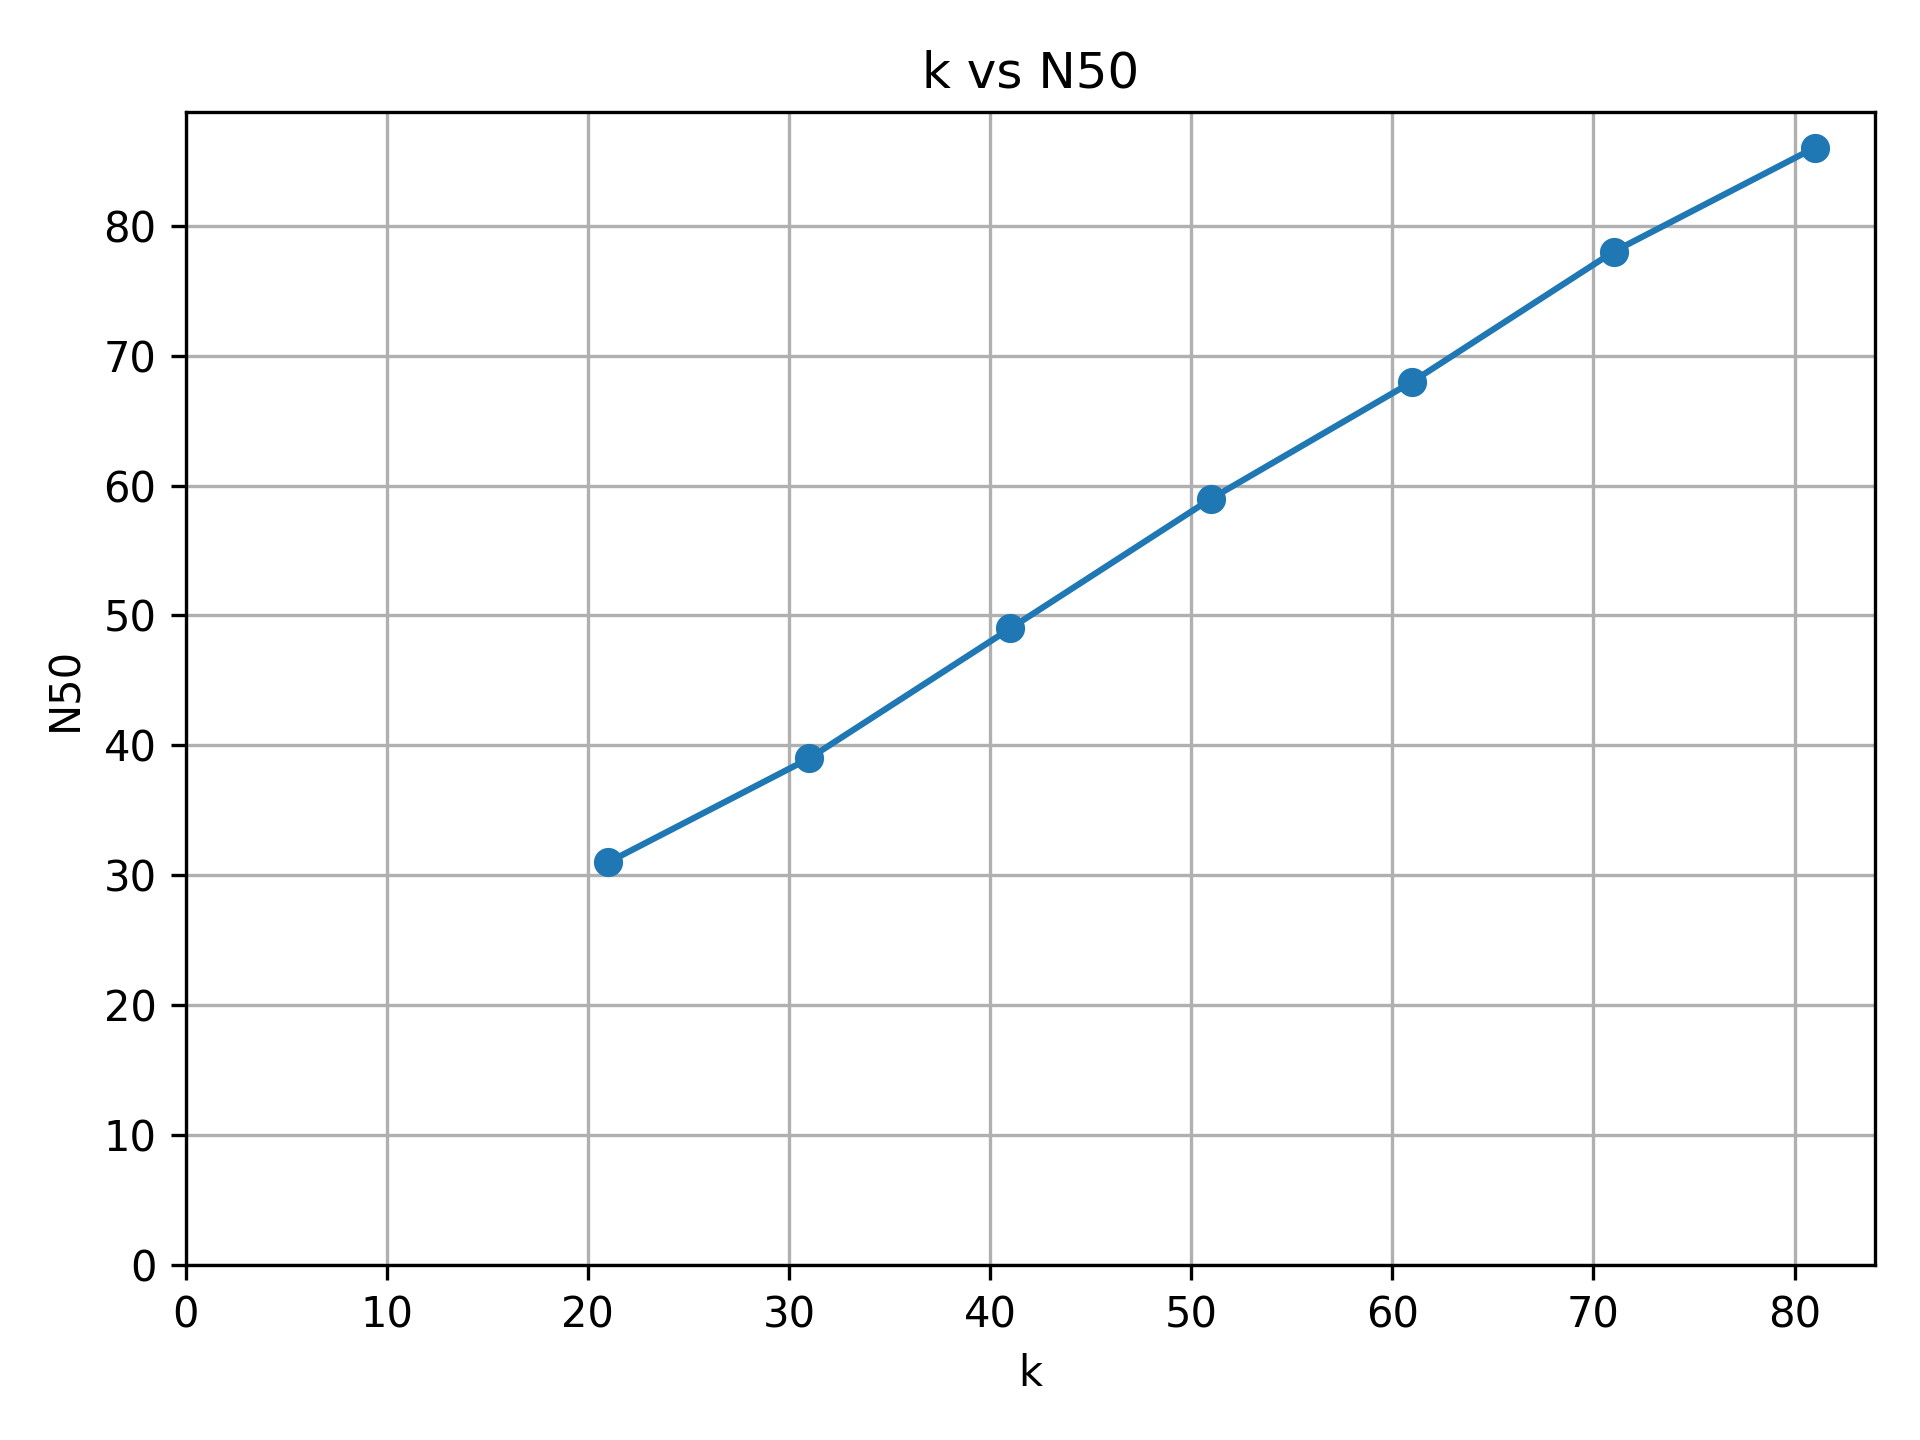
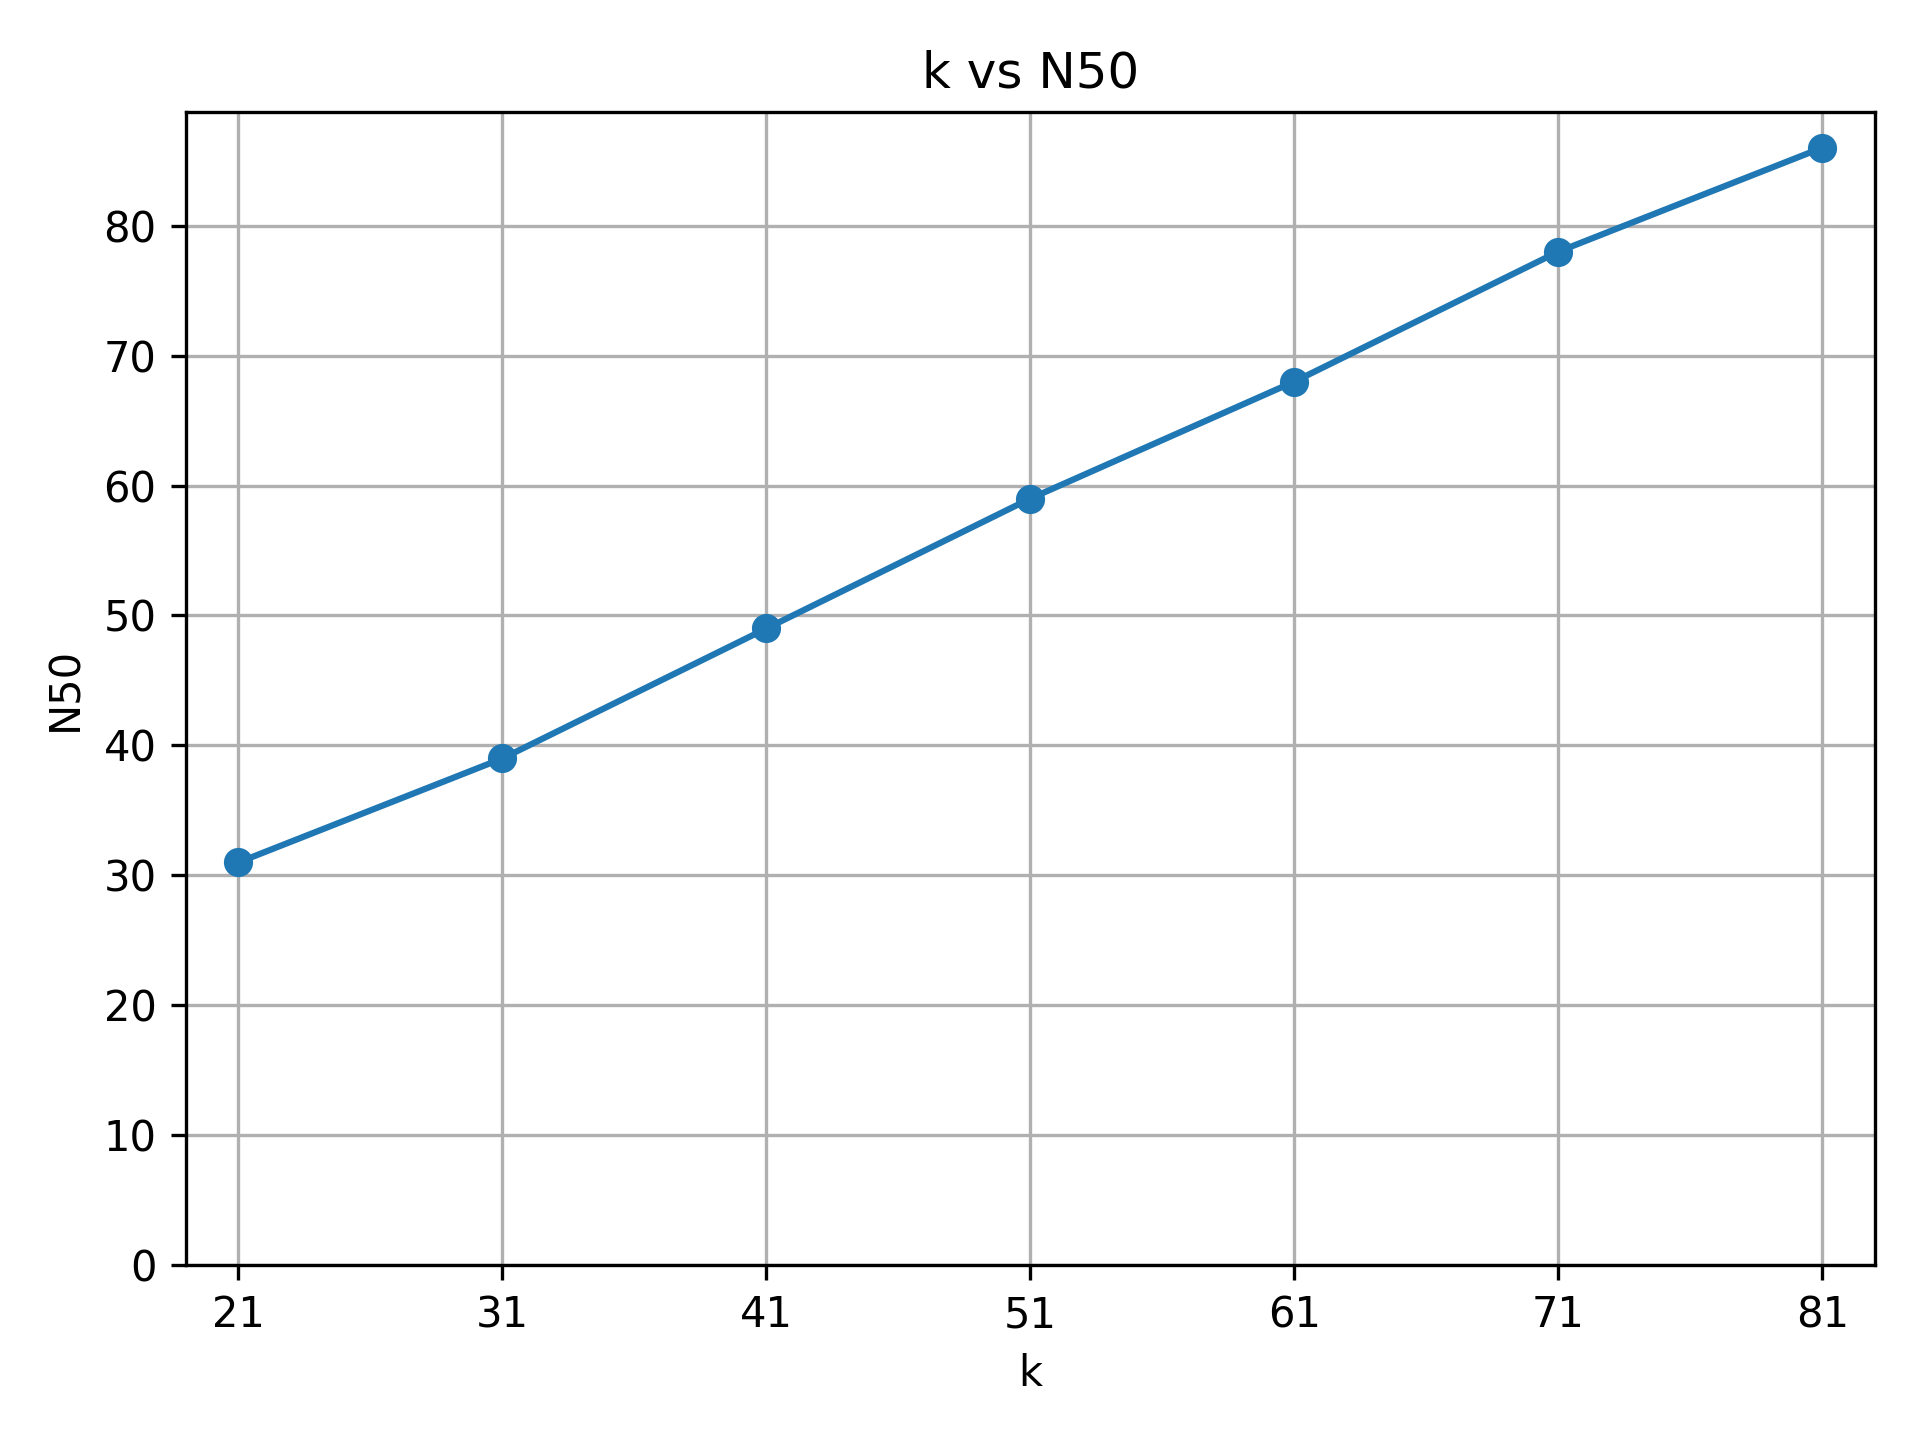
arreglos gráficas

diff --git a/python/visualizacion.py b/python/visualizacion.py
@@ -25,99 +25,59 @@ def leer_resultados(ruta):
 def graficar(ks, n50s, num_contigs, max_contigs, long_total):
     os.makedirs("resultados", exist_ok=True)
 
-    # Gráficas individuales de cada métrica
+    # Ordenar por k
+    ks, n50s = zip(*sorted(zip(ks, n50s)))
+    ks, num_contigs = zip(*sorted(zip(ks, num_contigs)))
+    ks, max_contigs = zip(*sorted(zip(ks, max_contigs)))
+    ks, long_total = zip(*sorted(zip(ks, long_total)))
 
-    # k vs N50
-    plt.figure()
-    plt.plot(ks, n50s, marker='o')
-    plt.xlabel("k")
-    plt.ylabel("N50")
-    plt.title("k vs N50")
-    plt.ylim(bottom=0)
-    plt.xlim(left=0)
-    plt.grid(True)
-    plt.tight_layout()
-    plt.savefig("resultados/k_vs_n50.png", dpi=300)
-    plt.close()
+    # Función auxiliar para hacer las gráficas
+    def plot_simple(ks, valores, ylabel, title, filename):
+        plt.figure()
+        plt.plot(ks, valores, marker='o')
 
-    # k vs número de contigs
-    plt.figure()
-    plt.plot(ks, num_contigs, marker='o')
-    plt.xlabel("k")
-    plt.ylabel("Número de contigs")
-    plt.title("k vs Número de contigs")
-    plt.ylim(bottom=0)
-    plt.xlim(left=0)
-    plt.grid(True)
-    plt.tight_layout()
-    plt.savefig("resultados/k_vs_contigs.png", dpi=300)
-    plt.close()
+        plt.xlabel("k")
+        plt.ylabel(ylabel)
+        plt.title(title)
 
-    # k vs longitud máxima de contig
-    plt.figure()
-    plt.plot(ks, max_contigs, marker='o')
-    plt.xlabel("k")
-    plt.ylabel("Longitud máxima de contig")
-    plt.title("k vs Longitud máxima de contig")
-    plt.ylim(bottom=0)
-    plt.xlim(left=0)
-    plt.grid(True)
-    plt.tight_layout()
-    plt.savefig("resultados/k_vs_max.png", dpi=300)
-    plt.close()
+        # eje X dinámico
+        plt.xlim(min(ks) - 2, max(ks) + 2)
+        plt.xticks(ks)
 
-    # k vs longitud total
-    plt.figure()
-    plt.plot(ks, long_total, marker='o')
-    plt.xlabel("k")
-    plt.ylabel("Longitud total ensamblada")
-    plt.title("k vs Longitud total")
-    plt.ylim(bottom=0)
-    plt.xlim(left=0)
-    plt.grid(True)
-    plt.tight_layout()
-    plt.savefig("resultados/k_vs_total.png", dpi=300)
-    plt.close()
+        plt.ylim(bottom=0)
+        plt.grid(True)
+        plt.tight_layout()
+        plt.savefig(f"resultados/{filename}", dpi=300)
+        plt.close()
 
-    # Figura con todas las gráficas juntas
+    # Gráficas individuales
+    plot_simple(ks, n50s, "N50", "k vs N50", "k_vs_n50.png")
+    plot_simple(ks, num_contigs, "Número de contigs", "k vs Número de contigs", "k_vs_contigs.png")
+    plot_simple(ks, max_contigs, "Longitud máxima", "k vs Longitud máxima", "k_vs_max.png")
+    plot_simple(ks, long_total, "Longitud total", "k vs Longitud total", "k_vs_total.png")
 
+    # Todas las gráficas juntas
     fig, axs = plt.subplots(4, 1, figsize=(8, 16))
 
-    # N50
-    axs[0].plot(ks, n50s, marker='o')
-    axs[0].set_title("k vs N50")
-    axs[0].set_xlabel("k")
-    axs[0].set_ylabel("N50")
-    axs[0].set_ylim(bottom=0)
-    axs[0].set_xlim(left=0)
-    axs[0].grid(True)
+    metricas = [
+        (n50s, "N50"),
+        (num_contigs, "Número de contigs"),
+        (max_contigs, "Longitud máxima"),
+        (long_total, "Longitud total")
+    ]
 
-    # Contigs
-    axs[1].plot(ks, num_contigs, marker='o')
-    axs[1].set_title("k vs Número de contigs")
-    axs[1].set_xlabel("k")
-    axs[1].set_ylabel("Número de contigs")
-    axs[1].set_ylim(bottom=0)
-    axs[1].set_xlim(left=0)
-    axs[1].grid(True)
+    for i, (valores, ylabel) in enumerate(metricas):
+        axs[i].plot(ks, valores, marker='o')
 
-    # Max contig
-    axs[2].plot(ks, max_contigs, marker='o')
-    axs[2].set_title("k vs Longitud máxima de contig")
-    axs[2].set_xlabel("k")
-    axs[2].set_ylabel("Longitud máxima")
-    axs[2].set_ylim(bottom=0)
-    axs[2].set_xlim(left=0)
-    axs[2].grid(True)
+        axs[i].set_title(f"k vs {ylabel}")
+        axs[i].set_xlabel("k")
+        axs[i].set_ylabel(ylabel)
 
-    # Longitud total
-    axs[3].plot(ks, long_total, marker='o')
-    axs[3].set_title("k vs Longitud total ensamblada")
-    axs[3].set_xlabel("k")
-    axs[3].set_ylabel("Longitud total")
-    axs[3].set_ylim(bottom=0)
-    axs[3].set_xlim(left=0)
-    axs[3].grid(True)
+        axs[i].set_xlim(min(ks) - 2, max(ks) + 2)
+        axs[i].set_xticks(ks)
+
+        axs[i].set_ylim(bottom=0)
+        axs[i].grid(True)
 
     plt.tight_layout()
     plt.savefig("resultados/k_vs_todo.png", dpi=300)
